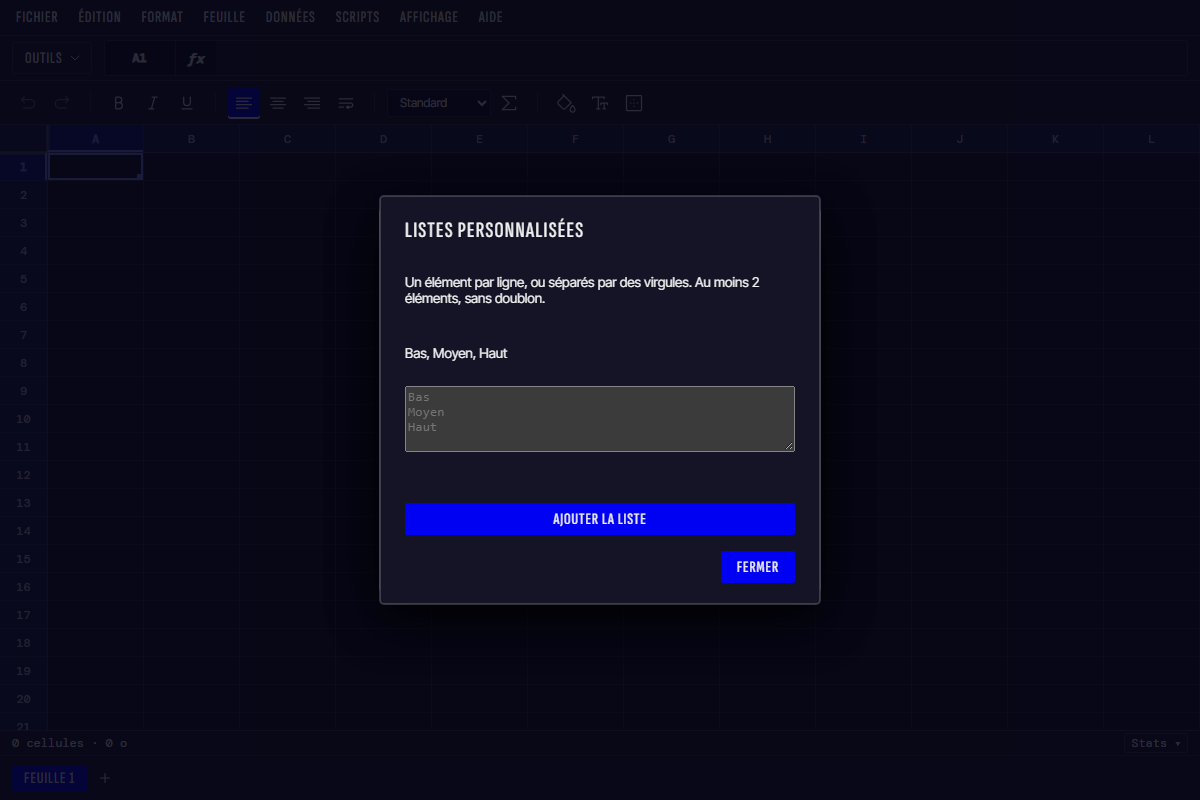
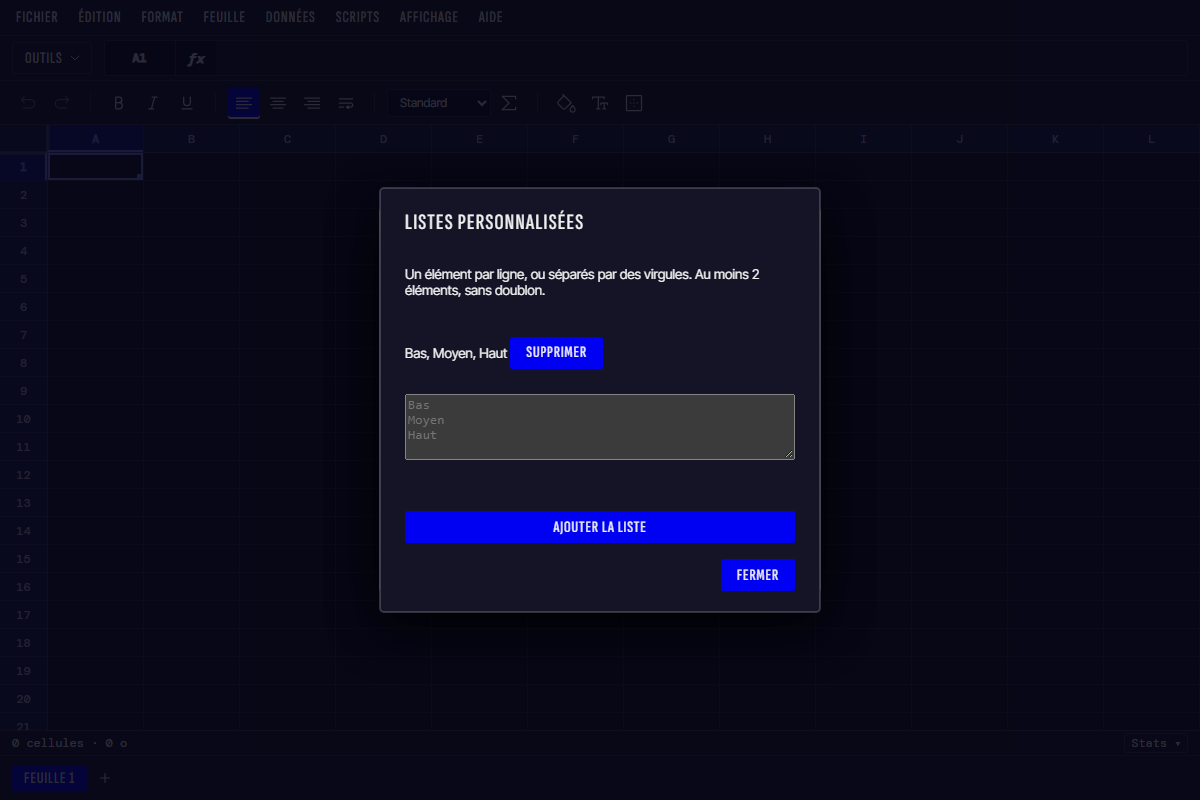
Boucle: implementation

Changed region(s): [[0.3083, 0.625, 0.6783, 0.7812], [0.3083, 0.2188, 0.6783, 0.375], [0.3392, 0.4062, 0.6783, 0.5938]]

diff --git a/src/ui/dialogs/customLists.ts b/src/ui/dialogs/customLists.ts
@@ -2,6 +2,7 @@
  * Listes personnalisées (Paramètres > Listes personnalisées…): ajout d'une suite de textes (ex. Bas, Moyen, Haut)
  * utilisée par le tri et la poignée de recopie. Saisie: un élément par ligne, ou séparé par virgule / point-virgule.
  * Un refus (vide, doublon, liste déjà existante) est affiché sous le formulaire; rien n'est enregistré.
+ * Chaque liste a un bouton « Supprimer ».
  */
 import { openDialog } from "./dialog";
 import { parseListText } from "../../engine/custom-lists";
@@ -21,11 +22,19 @@ export function openCustomLists(store: CustomLists = appLists): void {
   const err = body.querySelector<HTMLElement>('[role="alert"]')!;
   const shown = body.querySelector<HTMLElement>('[data-role="lists"]')!;
 
-  /** Affiche les listes enregistrées (texte seul, pas de HTML saisi). */
+  /** Affiche les listes enregistrées (texte seul, pas de HTML saisi), chacune avec son bouton Supprimer. */
   const render = (): void => {
-    shown.replaceChildren(...store.lists().map((l) => {
+    shown.replaceChildren(...store.lists().map((l, i) => {
       const p = document.createElement("p");
-      p.textContent = l.join(", ");
+      const del = document.createElement("button");
+      del.type = "button";
+      del.className = "dk-dialog__btn";
+      del.dataset.action = "remove";
+      del.dataset.index = String(i);
+      del.textContent = "Supprimer";
+      del.setAttribute("aria-label", `Supprimer ${l.join(", ")}`);
+      del.addEventListener("click", () => { store.remove(i); render(); });
+      p.append(l.join(", "), " ", del);
       return p;
     }));
   };

diff --git a/src/io/customLists.ts b/src/io/customLists.ts
@@ -1,6 +1,7 @@
 /**
  * Listes personnalisées persistées (localStorage par défaut, store injectable comme `io/recents.ts`).
- * `lists()` renvoie une copie; `add(items)` valide via `engine/custom-lists.ts` et n'écrit rien en cas de refus.
+ * `lists()` renvoie une copie; `add(items)` valide via `engine/custom-lists.ts` et n'écrit rien en cas de refus;
+ * `remove(i)` supprime la liste à la position `i`.
  */
 import { validateList, type ListCheck } from "../engine/custom-lists";
 import type { KeyValueStore } from "./recents";
@@ -21,6 +22,8 @@ export function createCustomLists(store: KeyValueStore | null) {
     } catch { return []; }
   };
   let items = load();
+  /** Écrit les listes; quota dépassé: elles restent en mémoire. */
+  const save = (): void => { try { store?.setItem(KEY, JSON.stringify(items)); } catch { /* quota */ } };
   return {
     /** Listes enregistrées, dans l'ordre d'ajout. */
     lists: (): string[][] => items.map((l) => [...l]),
@@ -29,8 +32,15 @@ export function createCustomLists(store: KeyValueStore | null) {
       const r = validateList(raw, items);
       if (!r.ok) return r;
       items = [...items, r.list];
-      try { store?.setItem(KEY, JSON.stringify(items)); } catch { /* quota: reste en mémoire */ }
+      save();
       return r;
+    },
+    /** Supprime la liste n° `i`; faux si la position n'existe pas. */
+    remove(i: number): boolean {
+      if (!Number.isInteger(i) || i < 0 || i >= items.length) return false;
+      items = items.filter((_, k) => k !== i);
+      save();
+      return true;
     },
   };
 }

diff --git a/e2e/feat-listes-personnalisees.spec.ts b/e2e/feat-listes-personnalisees.spec.ts
@@ -1,4 +1,4 @@
-/** E2E: listes personnalisées (Paramètres > Listes personnalisées…): ajout, refus d'un doublon, captures dans docs/screenshots/listes-personnalisees-de-tri-et-de-recopie/. */
+/** E2E: listes personnalisées (Paramètres > Listes personnalisées…): ajout, refus d'un doublon, suppression, captures dans docs/screenshots/listes-personnalisees-de-tri-et-de-recopie/. */
 import { test, expect } from "@playwright/test";
 import { openApp } from "./helpers";
 
@@ -31,6 +31,10 @@ for (const theme of ["clair", "sombre"] as const) {
       await page.locator(`${dialog} button[data-action="add"]`).click();
       await expect(page.locator(`${dialog} [role="alert"]`)).toContainText("double");
       await page.screenshot({ path: `${SHOTS}/refus-doublon-${suffix}.png` });
+
+      await page.locator(`${dialog} button[data-action="remove"][data-index="0"]`).click();
+      await expect(page.locator(`${dialog} [data-role="lists"]`)).not.toContainText("Bas");
+      await page.screenshot({ path: `${SHOTS}/liste-supprimee-${suffix}.png` });
     });
   });
 }

diff --git a/src/ui/dialogs/customLists.test.ts b/src/ui/dialogs/customLists.test.ts
@@ -44,4 +44,13 @@ describe("Listes personnalisées", () => {
     esc(document.querySelector('[data-id="customLists"]')!);
     expect(document.querySelector('[data-id="customLists"]')).toBeNull();
   });
+
+  it("supprime une liste via son bouton", () => {
+    const store = createCustomLists(null);
+    store.add(["Bas", "Haut"]); store.add(["Nord", "Sud"]);
+    openCustomLists(store);
+    document.querySelector<HTMLButtonElement>('[data-id="customLists"] button[data-action="remove"][data-index="0"]')!.click();
+    expect(store.lists()).toEqual([["Nord", "Sud"]]);
+    expect(document.querySelector('[data-id="customLists"] [data-role="lists"]')!.textContent).not.toContain("Bas");
+  });
 });

diff --git a/src/io/customLists.test.ts b/src/io/customLists.test.ts
@@ -36,4 +36,13 @@ describe("createCustomLists", () => {
     cl.add(["X", "Y"]);
     expect(cl.lists()).toEqual([["X", "Y"]]);
   });
+  it("supprime une liste par position et persiste", () => {
+    const store = memStore();
+    const cl = createCustomLists(store);
+    cl.add(["A", "B"]); cl.add(["X", "Y"]);
+    expect(cl.remove(0)).toBe(true);
+    expect(cl.lists()).toEqual([["X", "Y"]]);
+    expect(createCustomLists(store).lists()).toEqual([["X", "Y"]]);
+    expect(cl.remove(5)).toBe(false);
+  });
 });

diff --git a/docs/rapports/listes-personnalisees-de-tri-et-de-recopie.md b/docs/rapports/listes-personnalisees-de-tri-et-de-recopie.md
@@ -1,5 +1,4 @@
 # Rapport : Listes personnalisées de tri et de recopie
-Statut : en-cours
 Visible : oui
 
 ## Fait
@@ -14,15 +13,16 @@ Visible : oui
 - `src/engine/series.ts`: `extendSeries(..., lists)`; `src/ui/grid/seriesFill.ts` passe `customLists.lists()` (poignée de recopie).
 - `src/engine/sort.ts`: option `list` (les valeurs de la liste passent avant les autres, dans l'ordre de la liste; vides en bas; `desc` inverse dans la liste).
 - Tests: `src/engine/custom-lists.test.ts`, `src/engine/series-custom.test.ts`, `src/engine/sort-custom.test.ts`, `src/io/customLists.test.ts`. Tests liés (series, sort, ui/grid): 35 fichiers, 289 tests verts; `tsc --noEmit` sans erreur.
+- Suppression: `io/customLists.ts` `remove(i)` (persistée), bouton « Supprimer » par liste dans `ui/dialogs/customLists.ts`; tests `src/io/customLists.test.ts`, `src/ui/dialogs/customLists.test.ts`; e2e étendu (suppression).
 
 ## Non fait
-- Édition/suppression des listes (dialogue: ajout seul pour l'instant).
+- Modification d'une liste existante (contournement: la supprimer puis la ressaisir).
 - Tri: choix de la liste par l'utilisateur (la liste est détectée automatiquement); pas de tri par liste dans l'e2e (couvert par les tests unitaires).
-- Suppression d'une liste: non prévue dans l'API.
 
 ## Captures
 - `docs/screenshots/listes-personnalisees-de-tri-et-de-recopie/liste-ajoutee-clair.png`, `liste-ajoutee-sombre.png` (liste enregistrée)
 - `docs/screenshots/listes-personnalisees-de-tri-et-de-recopie/refus-doublon-clair.png`, `refus-doublon-sombre.png` (doublon refusé, raison affichée)
+- `docs/screenshots/listes-personnalisees-de-tri-et-de-recopie/liste-supprimee-clair.png`, `liste-supprimee-sombre.png` (liste supprimée)
 
 ## Decisions
 - Dialogue `ui/dialogs/customLists.ts` ouvert depuis Paramètres (bouton « Listes personnalisées… »): saisie par ligne/virgule, erreur affichée si refus.
@@ -35,10 +35,4 @@ Visible : oui
 - Doublon refusé à casse près et au niveau de la séquence (même liste dans un autre ordre = liste différente, acceptée).
 - Design `docs/design/2026-10-25-204816.html` non suivi: il porte sur « Valeur cible et évaluation pas à pas » (Données > Valeur cible), sans rapport avec les listes. Décision prise sans sous-agent (sujet évident).
 - Chemins de la carte (`src/data/custom-lists.ts`, `src/ui/OptionsDialog.tsx`, `src/engine/autofill.ts`) n'existent pas: l'implémentation réelle est `engine/custom-lists.ts`, `io/customLists.ts`, `ui/dialogs/customLists.ts`, `engine/series-names.ts`.
-- Ce tour: aucun changement de code. Vérification des critères (mémorisation, recopie cyclique, tri par liste, refus vide/doublon) par les tests liés (7 fichiers, 57 tests) et `tsc --noEmit`.
-
-## Preuves
-- Tests : ok (non executes : documentation seule)
-- Typecheck : ok
-- Captures : sans objet
-<!-- boucle-proof {"tests":{"ok":true,"scope":"none"},"tsc":{"ok":true}} -->
+- Suppression par position (bouton par liste), sans confirmation: la liste se ressaisit en quelques secondes.
